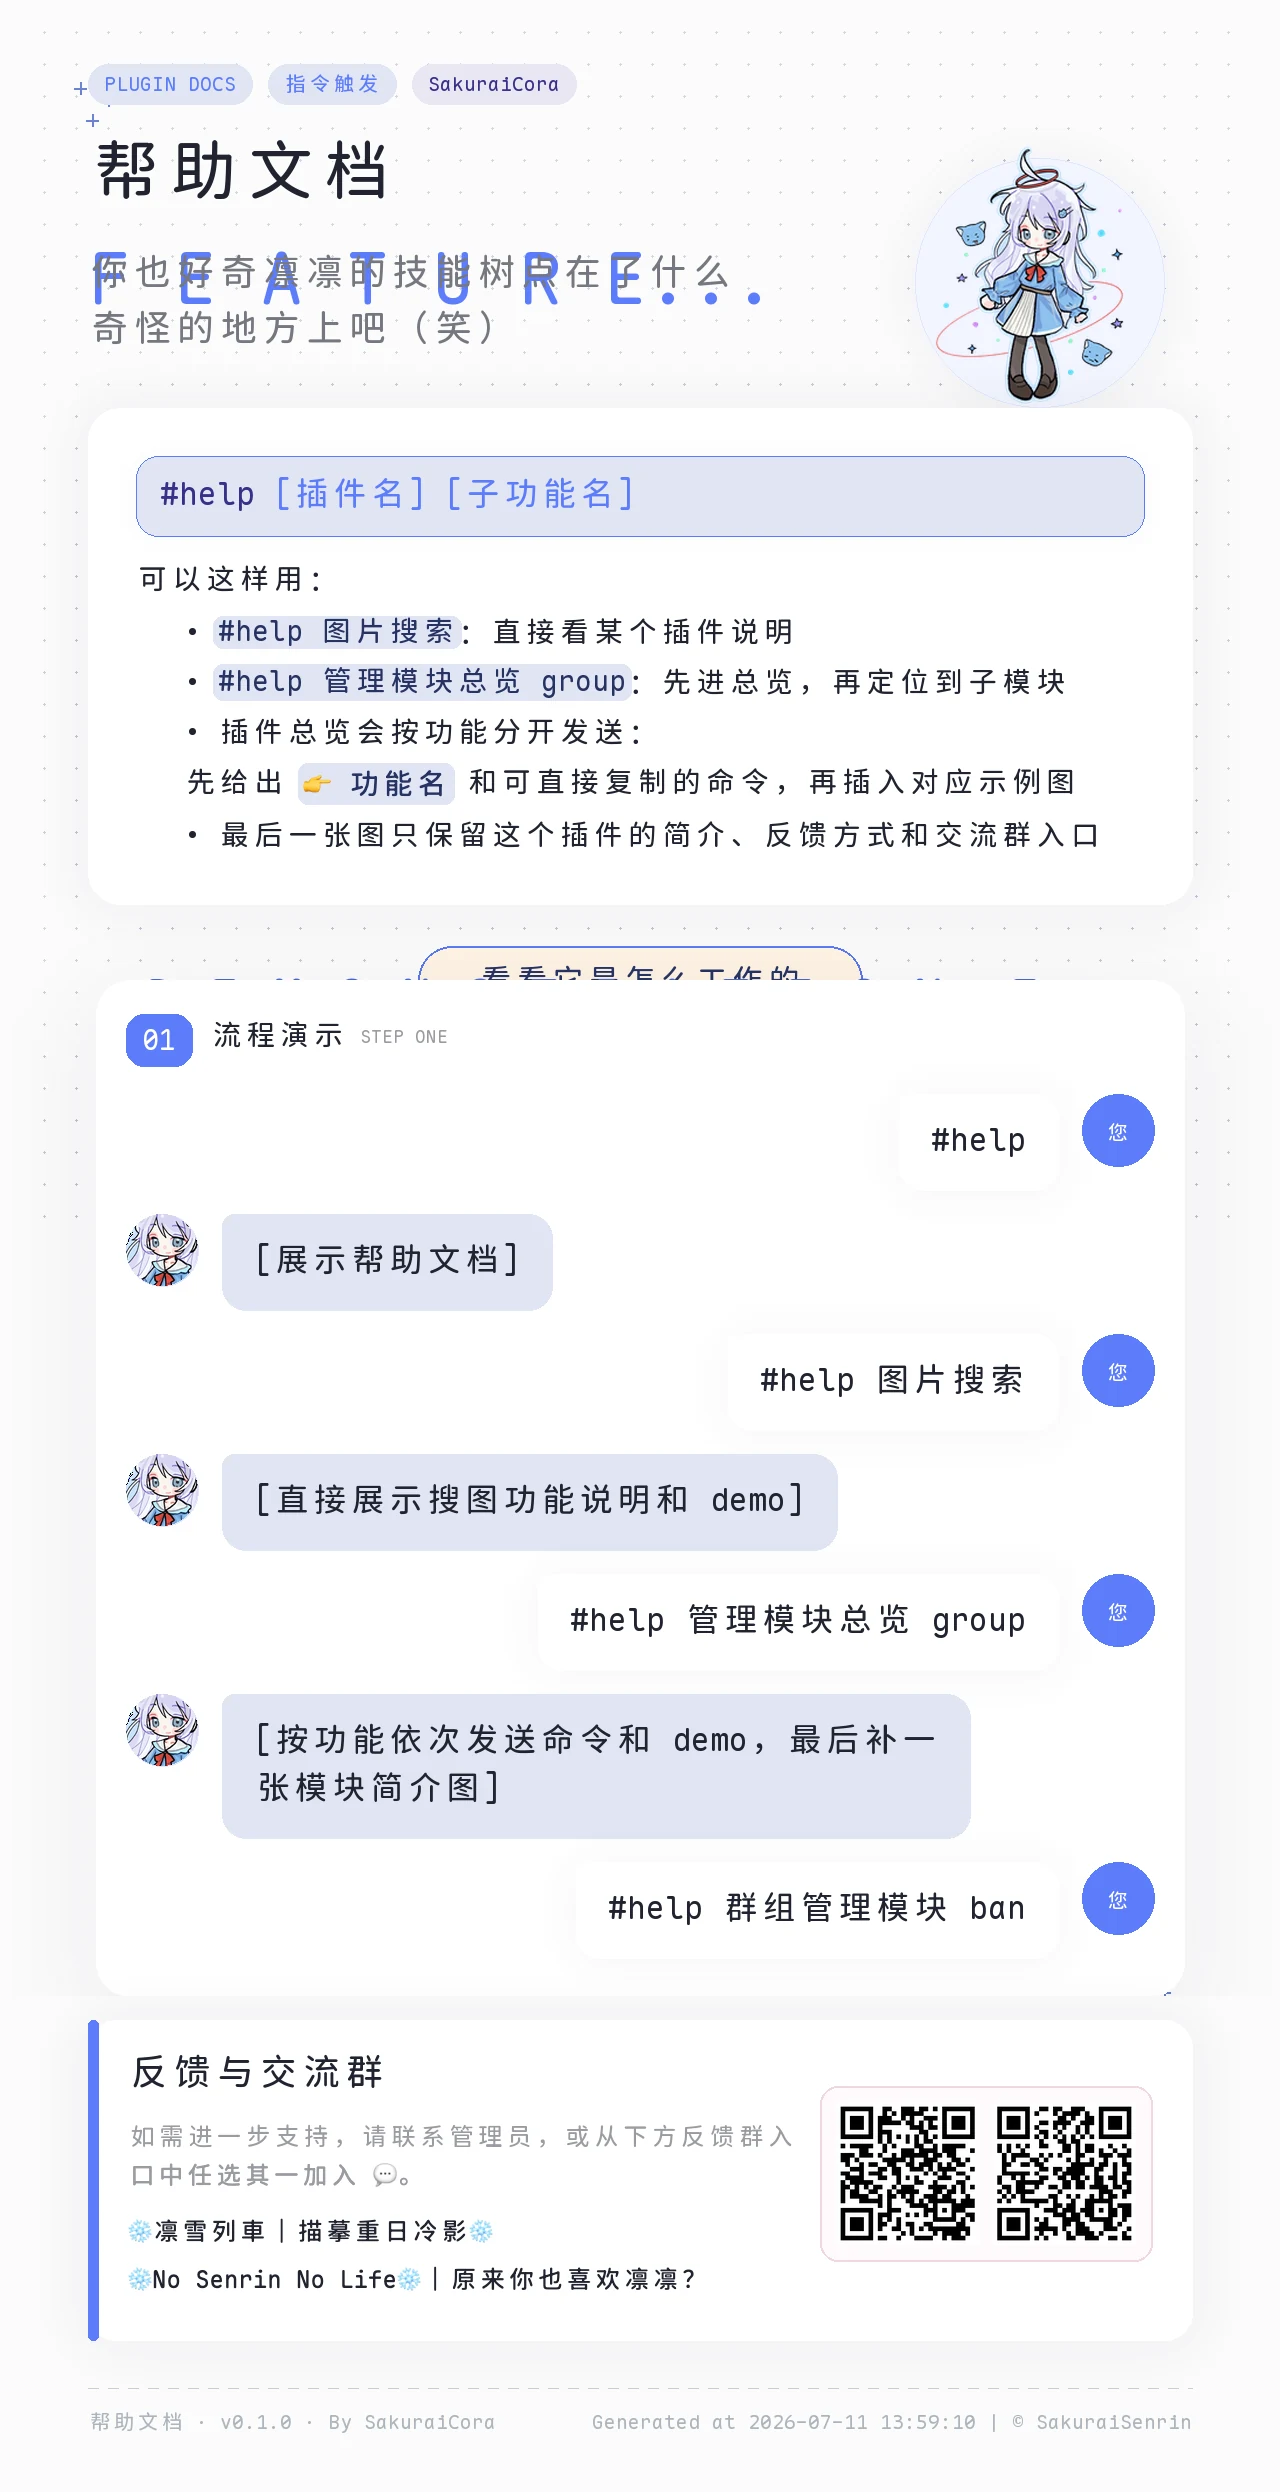
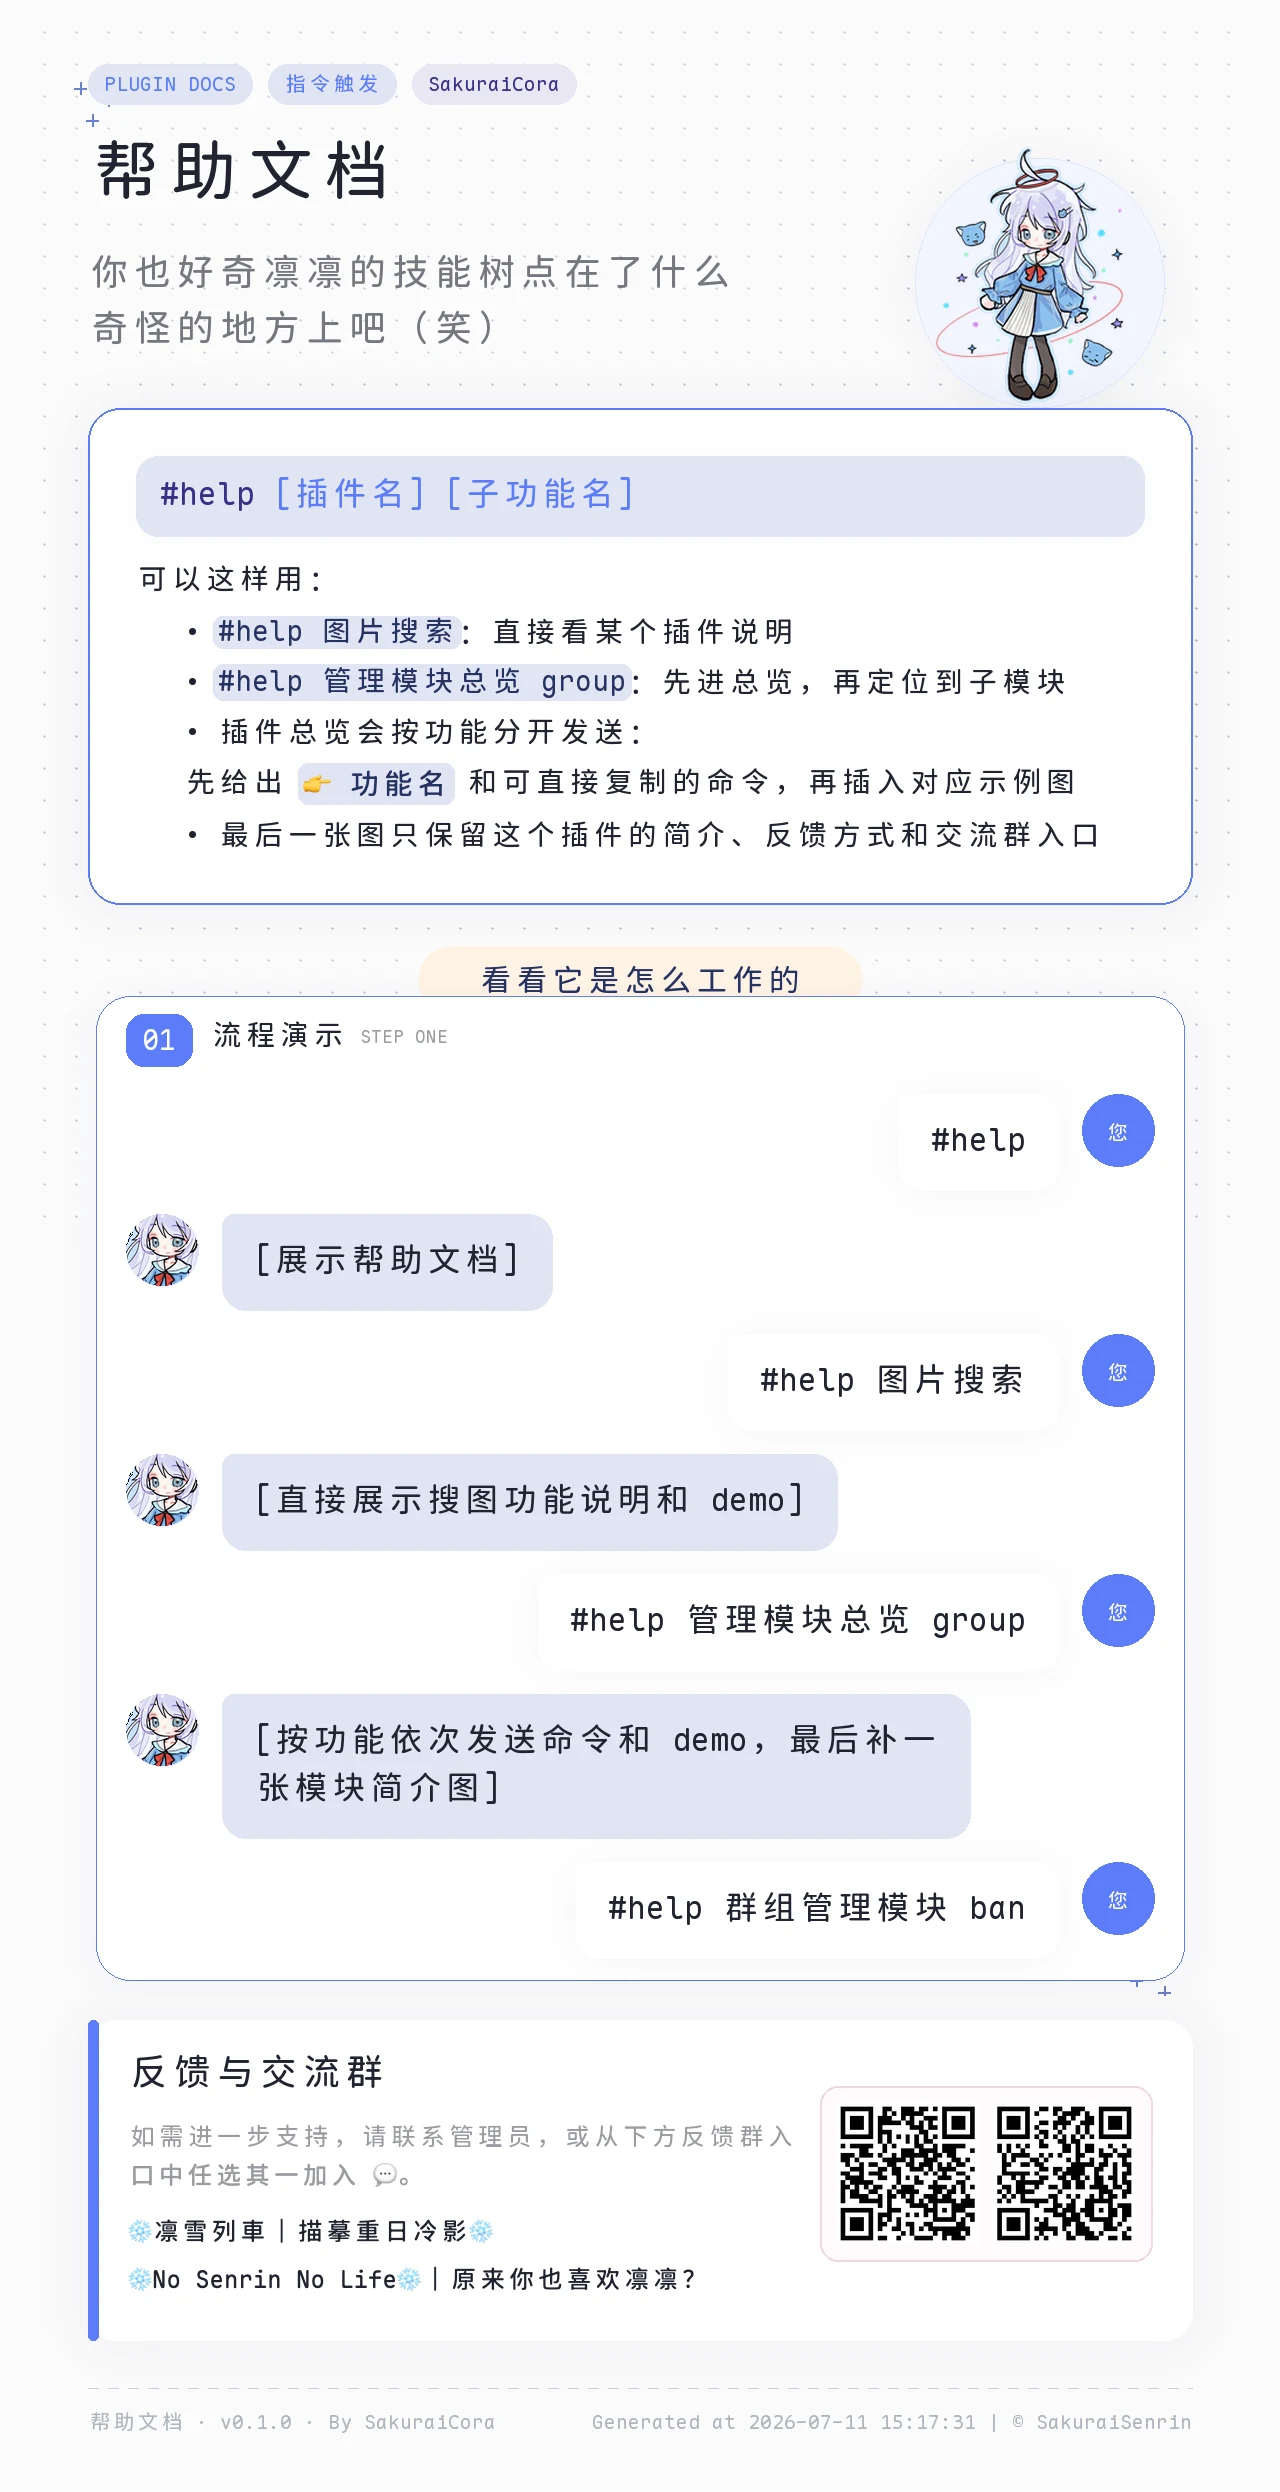
✨ feat(plugin-docs): 调整 help 主图流程卡与二维码支撑区

diff --git a/src/lib/plugin_docs/render/demo.py b/src/lib/plugin_docs/render/demo.py
@@ -895,18 +895,21 @@ class DemoImageRenderer:
             fill=self.theme.strong,
             line_height=self._line_height_for_font(self.kicker_font),
         )
-        self._draw_section_watermark(
-            draw,
-            rect=(
-                layout.title_rect[0],
-                layout.title_rect[3] + 6,
-                min(self.WIDTH - self.theme.hero_side_padding, layout.standee_rect[0]),
-                layout.summary_rect[3] + 8,
-            ),
-            text="FEATURE GUIDE",
-            font=self.watermark_font,
-            fill=self._rgba(self.theme.accent, self.WATERMARK_ALPHA_LARGE),
-        )
+        # self._draw_section_watermark(
+        #     draw,
+        #     rect=(
+        #         layout.title_rect[0],
+        #         layout.title_rect[3] + 6,
+        #         min(
+        #             self.WIDTH - self.theme.hero_side_padding,
+        #             layout.standee_rect[0],
+        #         ),
+        #         layout.summary_rect[3] + 8,
+        #     ),
+        #     text="FEATURE GUIDE",
+        #     font=self.watermark_font,
+        #     fill=self._rgba(self.theme.accent, self.WATERMARK_ALPHA_LARGE),
+        # )
         self._draw_multiline_text(
             draw,
             x=layout.title_rect[0],
@@ -1043,38 +1046,30 @@ class DemoImageRenderer:
             draw,
             rect=capsule_rect,
             text="看看它是怎么工作的",
-            fill=(255, 243, 228, 224),
-            outline=self._rgba(self.theme.accent, 52),
+            fill=(255, 243, 228, 191),
+            outline=None,
         )
-        self._draw_section_watermark(
-            draw,
-            rect=(
-                layout.demo_rect[0] + 48,
-                layout.demo_rect[1] - 18,
-                layout.demo_rect[2] - 48,
-                layout.demo_rect[1] + 88,
-            ),
-            text="DEMONSTRATION FLOW",
-            font=self.watermark_font_small,
-            fill=self._rgba(self.theme.accent, self.WATERMARK_ALPHA),
-            align="right",
-        )
-        self._draw_outlined_panel(
-            image,
-            draw,
-            rect=layout.demo_rect,
-            radius=34,
-            fill="#FFFFFF",
-            outline=self._rgba(self.theme.accent, 62),
-            shadow_offset_y=24,
-            shadow_blur=44,
-        )
+        # self._draw_section_watermark(
+        #     draw,
+        #     rect=(
+        #         layout.demo_rect[0] + 48,
+        #         layout.demo_rect[1] - 18,
+        #         layout.demo_rect[2] - 48,
+        #         layout.demo_rect[1] + 88,
+        #     ),
+        #     text="DEMONSTRATION FLOW",
+        #     font=self.watermark_font_small,
+        #     fill=self._rgba(self.theme.accent, self.WATERMARK_ALPHA),
+        #     align="right",
+        # )
         for band in layout.demo_section_bands:
-            self._draw_panel_outline(
+            self._draw_soft_band_panel(
+                image,
                 draw,
                 rect=band.rect,
                 radius=34,
-                outline=self._rgba(self.theme.accent, 62),
+                fill="#FFFFFF",
+                outline=self._rgba(self.theme.accent, 34),
             )
             badge_rect = (
                 band.tag_rect[0],
@@ -1381,6 +1376,33 @@ class DemoImageRenderer:
         width: int = 2,
     ) -> None:
         draw.rounded_rectangle(rect, radius=radius, outline=outline, width=width)
+
+    def _draw_soft_band_panel(
+        self,
+        image: Image.Image,
+        draw: ImageDraw.ImageDraw,
+        *,
+        rect: tuple[int, int, int, int],
+        radius: int,
+        fill: str,
+        outline: tuple[int, int, int, int],
+    ) -> None:
+        self._draw_shadowed_rect(
+            image,
+            rect=rect,
+            radius=radius,
+            shadow_color=self._rgba(self.theme.accent, 10),
+            shadow_offset_y=6,
+            shadow_blur=20,
+            fill=fill,
+        )
+        self._draw_panel_outline(
+            draw,
+            rect=rect,
+            radius=radius,
+            outline=outline,
+            width=1,
+        )
 
     def _draw_outlined_panel(
         self,

diff --git a/src/lib/plugin_docs/_engine.py b/src/lib/plugin_docs/_engine.py
@@ -1140,7 +1140,12 @@ def render_demo_png(
     *,
     generated_at: datetime | None = None,
 ) -> bytes:
-    return DemoImageRenderer(impression_color=bundle.impression_color).render(
+    generated = generated_at or datetime.fromtimestamp(get_current_time()).replace(
+        microsecond=0
+    )
+    demo_result = DemoImageRenderer(
+        impression_color=bundle.impression_color
+    ).render_with_audit(
         plugin_title=bundle.title,
         feature_title=feature.title,
         feature_summary=feature.summary,
@@ -1155,7 +1160,23 @@ def render_demo_png(
         plugin_author=bundle.author,
         turns=feature.demo_turns,
         locale="zh-CN",
-        generated_at=generated_at,
+        generated_at=generated,
+    )
+    return ProgressiveDisclosureRenderer(
+        impression_color=bundle.impression_color
+    ).compose_with_support_strip(
+        demo_result.image,
+        locale="zh-CN",
+        footer_left_text=build_trace_footer_left_text(
+            plugin_title=bundle.title,
+            feature_title=feature.title,
+            plugin_version=bundle.version,
+            plugin_author=bundle.author,
+        ),
+        footer_right_text=(
+            f"Generated at {generated:%Y-%m-%d %H:%M:%S} | © SakuraiSenrin"
+        ),
+        trim_source_footer=True,
     )
 
 
